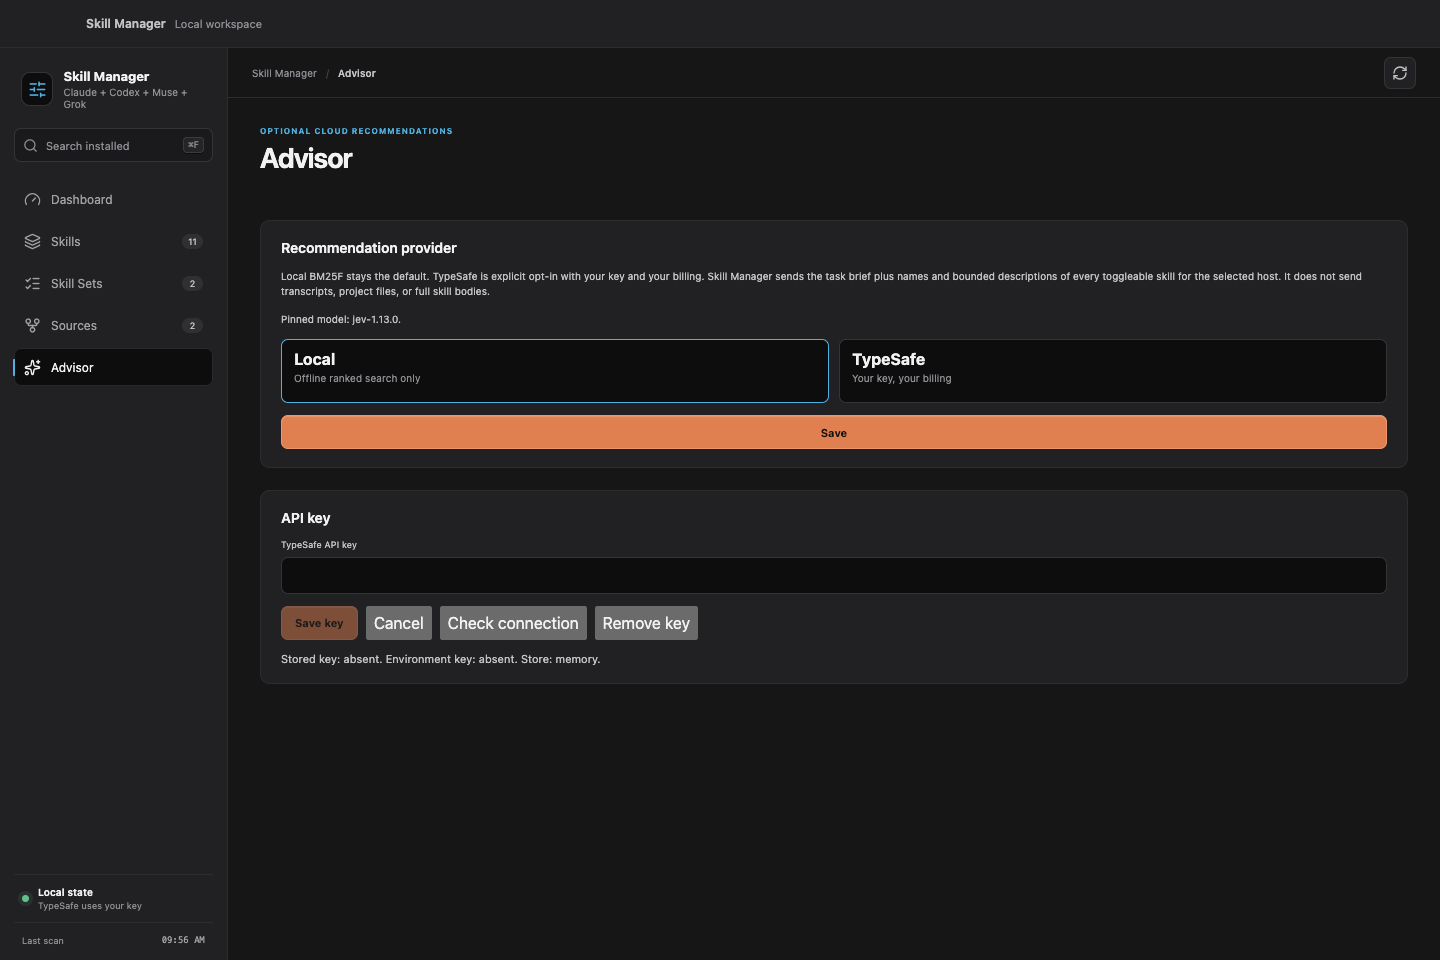
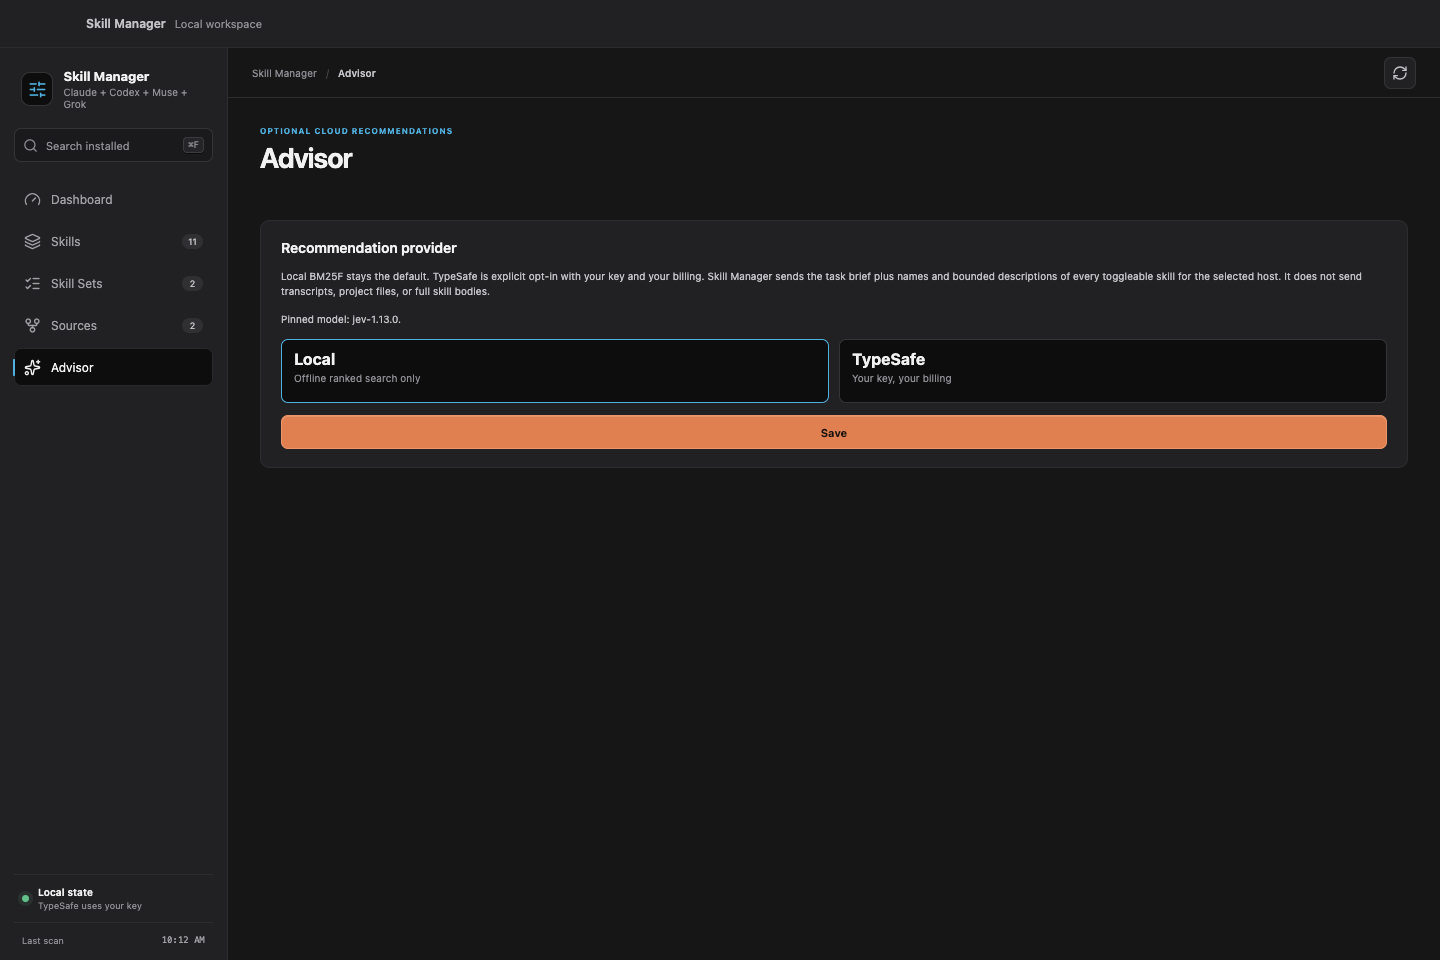
fix: show the TypeSafe key field only after TypeSafe is selected
Keep the API key panel hidden on the default Local Advisor screen. Selecting TypeSafe reveals it; switching back to Local hides it and clears the in-progress input.

Changed region(s): [[0.1875, 0.625, 0.5, 0.6875], [0.1875, 0.5312, 0.25, 0.5938]]

diff --git a/desktop/frontend/src/components/AdvisorSettings.tsx b/desktop/frontend/src/components/AdvisorSettings.tsx
@@ -59,7 +59,7 @@ export default function AdvisorSettings({ backend }: AdvisorSettingsProps) {
         <p className="dialog-description">Local BM25F stays the default. TypeSafe is explicit opt-in with your key and your billing. Skill Manager sends the task brief plus names and bounded descriptions of every toggleable skill for the selected host. It does not send transcripts, project files, or full skill bodies.</p>
         <p className="dialog-description">Pinned model: {view?.model ?? 'jev-1.13.0'}.</p>
         <div className="advisor-choice-row">
-          <button type="button" aria-label="Local" className={selectedMode === 'local' ? 'advisor-choice active' : 'advisor-choice'} onClick={() => setSelectedMode('local')} disabled={busy}>
+          <button type="button" aria-label="Local" className={selectedMode === 'local' ? 'advisor-choice active' : 'advisor-choice'} onClick={() => { setSelectedMode('local'); setKeyValue('') }} disabled={busy}>
             <strong>Local</strong>
             <small>Offline ranked search only</small>
           </button>
@@ -71,32 +71,34 @@ export default function AdvisorSettings({ backend }: AdvisorSettingsProps) {
         <button type="button" className="primary-button" disabled={busy || !view} onClick={() => void run(() => backend.saveAdvisorProvider(selectedMode))}>Save</button>
       </article>
 
-      <article className="advisor-panel">
-        <h2>API key</h2>
-        <label className="dialog-field">
-          TypeSafe API key
-          <input type="password" autoComplete="off" value={keyValue} onChange={(event) => setKeyValue(event.target.value)} disabled={busy} />
-        </label>
-        <div className="advisor-key-actions">
-          <button type="button" className="primary-button" disabled={busy || keyValue.trim() === ''} onClick={() => void run(() => backend.setAdvisorKey(keyValue))}>Save key</button>
-          <button type="button" disabled={busy} onClick={() => setKeyValue('')}>Cancel</button>
-          <button type="button" disabled={busy} onClick={() => void (async () => {
-            setBusy(true)
-            setError(null)
-            try {
-              const check = await backend.checkAdvisorConnection()
-              setStatus(check.ok ? `Connected (${check.keySource})` : `Check failed: ${check.reason ?? 'unknown'}`)
-            } catch (reason) {
-              setError(reason instanceof Error ? reason.message : String(reason))
-            } finally {
-              setBusy(false)
-            }
-          })()}>Check connection</button>
-          <button type="button" disabled={busy} onClick={() => void run(() => backend.removeAdvisorKey())}>Remove key</button>
-        </div>
-        <p className="advisor-status">{status || `Stored key: ${view?.storedKey ?? 'absent'}. Environment key: ${view?.environmentKey ? 'present' : 'absent'}. Store: ${view?.credentialStore ?? 'unknown'}.`}</p>
-        {error && <p className="advisor-error" role="alert">{error}</p>}
-      </article>
+      {selectedMode === 'typesafe' && (
+        <article className="advisor-panel">
+          <h2>API key</h2>
+          <label className="dialog-field">
+            TypeSafe API key
+            <input type="password" autoComplete="off" value={keyValue} onChange={(event) => setKeyValue(event.target.value)} disabled={busy} />
+          </label>
+          <div className="advisor-key-actions">
+            <button type="button" className="primary-button" disabled={busy || keyValue.trim() === ''} onClick={() => void run(() => backend.setAdvisorKey(keyValue))}>Save key</button>
+            <button type="button" disabled={busy} onClick={() => setKeyValue('')}>Cancel</button>
+            <button type="button" disabled={busy} onClick={() => void (async () => {
+              setBusy(true)
+              setError(null)
+              try {
+                const check = await backend.checkAdvisorConnection()
+                setStatus(check.ok ? `Connected (${check.keySource})` : `Check failed: ${check.reason ?? 'unknown'}`)
+              } catch (reason) {
+                setError(reason instanceof Error ? reason.message : String(reason))
+              } finally {
+                setBusy(false)
+              }
+            })()}>Check connection</button>
+            <button type="button" disabled={busy} onClick={() => void run(() => backend.removeAdvisorKey())}>Remove key</button>
+          </div>
+          <p className="advisor-status">{status || `Stored key: ${view?.storedKey ?? 'absent'}. Environment key: ${view?.environmentKey ? 'present' : 'absent'}. Store: ${view?.credentialStore ?? 'unknown'}.`}</p>
+        </article>
+      )}
+      {error && <p className="advisor-error" role="alert">{error}</p>}
     </section>
   )
 }

diff --git a/desktop/frontend/src/components/AdvisorSettings.test.tsx b/desktop/frontend/src/components/AdvisorSettings.test.tsx
@@ -5,26 +5,52 @@ import AdvisorSettings from './AdvisorSettings'
 import { mockBackend } from '../test/fixtures'
 
 describe('AdvisorSettings', () => {
-  it('defaults to local and uses a password field', async () => {
+  it('defaults to local and hides the key field until TypeSafe is selected', async () => {
+    const user = userEvent.setup()
     const backend = mockBackend()
     render(<AdvisorSettings backend={backend} />)
     expect(await screen.findByRole('heading', { name: 'Advisor' })).toBeInTheDocument()
     expect(backend.getAdvisorSettings).toHaveBeenCalledTimes(1)
+    expect(screen.queryByLabelText('TypeSafe API key')).not.toBeInTheDocument()
+    await user.click(screen.getByRole('button', { name: 'TypeSafe' }))
     const input = screen.getByLabelText('TypeSafe API key')
     expect(input).toHaveAttribute('type', 'password')
+    await user.click(screen.getByRole('button', { name: 'Local' }))
+    expect(screen.queryByLabelText('TypeSafe API key')).not.toBeInTheDocument()
+  })
+
+  it('shows the key field when TypeSafe is already saved', async () => {
+    const backend = mockBackend()
+    vi.mocked(backend.getAdvisorSettings).mockResolvedValueOnce({
+      mode: 'typesafe',
+      environmentKey: false,
+      storedKey: 'absent',
+      credentialStore: 'memory',
+      model: 'jev-1.13.0',
+    })
+    render(<AdvisorSettings backend={backend} />)
+    expect(await screen.findByLabelText('TypeSafe API key')).toHaveAttribute('type', 'password')
   })
 
   it('saves a key once and clears the input', async () => {
     const user = userEvent.setup()
     const backend = mockBackend()
+    vi.mocked(backend.setAdvisorKey).mockResolvedValue({
+      mode: 'typesafe',
+      environmentKey: false,
+      storedKey: 'present',
+      credentialStore: 'memory',
+      model: 'jev-1.13.0',
+    })
     render(<AdvisorSettings backend={backend} />)
     await screen.findByRole('heading', { name: 'Advisor' })
+    await user.click(screen.getByRole('button', { name: 'TypeSafe' }))
     const input = screen.getByLabelText('TypeSafe API key')
     await user.type(input, 'sk-test-key-value')
     await user.click(screen.getByRole('button', { name: 'Save key' }))
     await waitFor(() => expect(backend.setAdvisorKey).toHaveBeenCalledTimes(1))
     expect(backend.setAdvisorKey).toHaveBeenCalledWith('sk-test-key-value')
-    expect(input).toHaveValue('')
+    expect(screen.getByLabelText('TypeSafe API key')).toHaveValue('')
     expect(document.body.innerHTML).not.toContain('sk-test-key-value')
     expect(window.localStorage.length).toBe(0)
   })
@@ -34,6 +60,7 @@ describe('AdvisorSettings', () => {
     const backend = mockBackend()
     render(<AdvisorSettings backend={backend} />)
     await screen.findByRole('heading', { name: 'Advisor' })
+    await user.click(screen.getByRole('button', { name: 'TypeSafe' }))
     const input = screen.getByLabelText('TypeSafe API key')
     await user.type(input, 'sk-cancel-me')
     await user.click(screen.getByRole('button', { name: 'Cancel' }))
